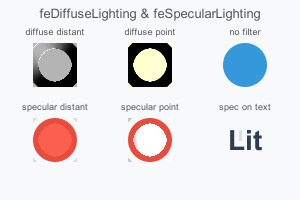
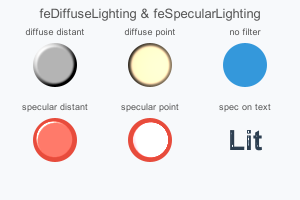
Fix filter rendering: transform leak, lighting normals, SourceAlpha, preserveAlpha
- Surface: fix transform leak in effect buffer compositing — save pre-node
  transform in a local variable before mask/filter processing can clobber
  the transform stack via recursive draw() calls. Restoring to the pre-node
  transform prevents the node's transform from leaking to subsequent siblings.
  This caused the 2nd+ filtered/masked groups to render off-screen.
- FilterRenderer: fix surface normal alpha scaling — divide by 255.0 per SVG
  spec (I(x,y) is in [0,1]), fixing lighting that was 255x too steep.
- FilterRenderer: add SourceAlpha support — create alpha-only image (RGB=0)
  instead of falling back to SourceGraphic.
- FilterRenderer: fix feConvolveMatrix preserveAlpha — skip premultiply when
  preserveAlpha=true per SVG spec (kernel operates on non-premultiplied values).

diff --git a/src/main/java/io/brunoborges/jairosvg/draw/FilterRenderer.java b/src/main/java/io/brunoborges/jairosvg/draw/FilterRenderer.java
@@ -90,6 +90,9 @@ public final class FilterRenderer {
         results.put("SourceGraphic", workSource);
         BufferedImage last = workSource;
 
+        // Lazily create SourceAlpha if referenced
+        BufferedImage sourceAlpha = null;
+
         // Pre-scan which named results are actually referenced by later primitives
         Set<String> referencedResults = new java.util.HashSet<>();
         for (Node child : filterNode.children) {
@@ -107,7 +110,18 @@ public final class FilterRenderer {
         }
 
         for (Node child : filterNode.children) {
-            BufferedImage input = resolveInput(results, child.get("in"), last, workSource);
+            // Resolve "SourceAlpha" lazily
+            String inRef = child.get("in");
+            if ("SourceAlpha".equals(inRef) && sourceAlpha == null) {
+                sourceAlpha = createSourceAlpha(workSource);
+                results.put("SourceAlpha", sourceAlpha);
+            }
+            String in2Ref = child.get("in2");
+            if ("SourceAlpha".equals(in2Ref) && sourceAlpha == null) {
+                sourceAlpha = createSourceAlpha(workSource);
+                results.put("SourceAlpha", sourceAlpha);
+            }
+            BufferedImage input = resolveInput(results, inRef, last, workSource);
             BufferedImage output = switch (child.tag) {
                 case "feGaussianBlur" -> {
                     if (buf1 == null)
@@ -529,8 +543,21 @@ public final class FilterRenderer {
         }
         return switch (in) {
             case "SourceGraphic" -> sourceGraphic;
+            case "SourceAlpha" -> results.getOrDefault("SourceAlpha", sourceGraphic);
             default -> results.getOrDefault(in, last);
         };
+    }
+
+    /** Create a SourceAlpha image: same alpha channel, RGB set to 0. */
+    private static BufferedImage createSourceAlpha(BufferedImage source) {
+        int w = source.getWidth(), h = source.getHeight();
+        BufferedImage alpha = new BufferedImage(w, h, BufferedImage.TYPE_INT_ARGB);
+        int[] srcData = ((DataBufferInt) source.getRaster().getDataBuffer()).getData();
+        int[] dstData = ((DataBufferInt) alpha.getRaster().getDataBuffer()).getData();
+        for (int i = 0; i < srcData.length; i++) {
+            dstData[i] = srcData[i] & 0xFF000000; // keep only alpha
+        }
+        return alpha;
     }
 
     // ── Filter primitives ────────────────────────────────────────────────
@@ -1136,16 +1163,18 @@ public final class FilterRenderer {
                         int pixel = sampleEdge(inData, w, h, sx, sy, edgeMode);
                         double kVal = kernel[ky * orderX + kx];
                         int pa = (pixel >> 24) & 0xFF;
-                        // SVG spec: convolution operates on premultiplied color values
                         int pr = (pixel >> 16) & 0xFF;
                         int pg = (pixel >> 8) & 0xFF;
                         int pb = pixel & 0xFF;
-                        if (pa > 0 && pa < 255) {
-                            pr = pr * pa / 255;
-                            pg = pg * pa / 255;
-                            pb = pb * pa / 255;
-                        } else if (pa == 0) {
-                            pr = pg = pb = 0;
+                        if (!preserveAlpha) {
+                            // SVG spec: default — kernel operates on premultiplied values
+                            if (pa > 0 && pa < 255) {
+                                pr = pr * pa / 255;
+                                pg = pg * pa / 255;
+                                pb = pb * pa / 255;
+                            } else if (pa == 0) {
+                                pr = pg = pb = 0;
+                            }
                         }
                         sumA += kVal * pa;
                         sumR += kVal * pr;
@@ -1159,20 +1188,24 @@ public final class FilterRenderer {
                 int pB = clamp((int) Math.round(sumB / divisor + bias * 255));
                 if (preserveAlpha) {
                     a = (inData[y * w + x] >> 24) & 0xFF;
-                } else {
-                    a = clamp((int) Math.round(sumA / divisor + bias * 255));
-                }
-                // Un-premultiply for storage in TYPE_INT_ARGB
-                if (a > 0 && a < 255) {
-                    r = Math.min(255, pR * 255 / a);
-                    g = Math.min(255, pG * 255 / a);
-                    b = Math.min(255, pB * 255 / a);
-                } else if (a == 0) {
-                    r = g = b = 0;
-                } else {
+                    // preserveAlpha: no premultiply was applied, store directly
                     r = pR;
                     g = pG;
                     b = pB;
+                } else {
+                    a = clamp((int) Math.round(sumA / divisor + bias * 255));
+                    // Un-premultiply for storage in TYPE_INT_ARGB
+                    if (a > 0 && a < 255) {
+                        r = Math.min(255, pR * 255 / a);
+                        g = Math.min(255, pG * 255 / a);
+                        b = Math.min(255, pB * 255 / a);
+                    } else if (a == 0) {
+                        r = g = b = 0;
+                    } else {
+                        r = pR;
+                        g = pG;
+                        b = pB;
+                    }
                 }
                 outData[y * w + x] = (a << 24) | (r << 16) | (g << 8) | b;
             }
@@ -1471,14 +1504,15 @@ public final class FilterRenderer {
         int y0 = Math.max(y - 1, 0);
         int y1 = Math.min(y + 1, h - 1);
 
-        double a00 = (alphaData[y0 * w + x0] >>> 24);
-        double a10 = (alphaData[y0 * w + x] >>> 24);
-        double a20 = (alphaData[y0 * w + x1] >>> 24);
-        double a01 = (alphaData[y * w + x0] >>> 24);
-        double a21 = (alphaData[y * w + x1] >>> 24);
-        double a02 = (alphaData[y1 * w + x0] >>> 24);
-        double a12 = (alphaData[y1 * w + x] >>> 24);
-        double a22 = (alphaData[y1 * w + x1] >>> 24);
+        // SVG spec: I(x,y) is alpha in [0,1], so divide by 255.0
+        double a00 = (alphaData[y0 * w + x0] >>> 24) / 255.0;
+        double a10 = (alphaData[y0 * w + x] >>> 24) / 255.0;
+        double a20 = (alphaData[y0 * w + x1] >>> 24) / 255.0;
+        double a01 = (alphaData[y * w + x0] >>> 24) / 255.0;
+        double a21 = (alphaData[y * w + x1] >>> 24) / 255.0;
+        double a02 = (alphaData[y1 * w + x0] >>> 24) / 255.0;
+        double a12 = (alphaData[y1 * w + x] >>> 24) / 255.0;
+        double a22 = (alphaData[y1 * w + x1] >>> 24) / 255.0;
 
         double factorX = x > 0 && x < w - 1 ? 0.25 : 0.5;
         double factorY = y > 0 && y < h - 1 ? 0.25 : 0.5;

diff --git a/src/main/java/io/brunoborges/jairosvg/surface/Surface.java b/src/main/java/io/brunoborges/jairosvg/surface/Surface.java
@@ -534,6 +534,11 @@ public sealed class Surface permits PngSurface, JpegSurface, TiffSurface, PdfSur
         context.setStroke(savedStroke);
 
         if (effectContext != null) {
+            // Save pre-node transform in a local variable before mask/filter
+            // processing can clobber transformStack[savedDepth] via recursive
+            // draw() calls (mask children, feImage, etc.).
+            AffineTransform preNodeTransform = new AffineTransform(transformStack[savedDepth]);
+
             BufferedImage renderedImage = effectSourceImage;
             java.awt.Rectangle filterClip = null;
             if (filterName != null) {
@@ -554,7 +559,6 @@ public sealed class Surface permits PngSurface, JpegSurface, TiffSurface, PdfSur
             // Full-size effect buffers already contain content at device
             // coordinates (the node's transform was applied during rendering).
             // Composite with identity transform to avoid double-applying it.
-            transformStack[transformDepth].setTransform(effectBaseContext.getTransform());
             effectBaseContext.setTransform(IDENTITY_TRANSFORM);
             if (subRegionEffect) {
                 effectBaseContext.drawImage(renderedImage, ebX, ebY, null);
@@ -568,7 +572,9 @@ public sealed class Surface permits PngSurface, JpegSurface, TiffSurface, PdfSur
                     effectBaseContext.drawImage(renderedImage, 0, 0, null);
                 }
             }
-            effectBaseContext.setTransform(transformStack[transformDepth]);
+            // Restore to pre-node transform (not the node-transformed state),
+            // preventing the node's transform from leaking to subsequent siblings.
+            effectBaseContext.setTransform(preNodeTransform);
             if (groupOpacity) {
                 effectBaseContext.setComposite(savedComposite);
             }